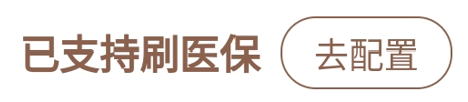
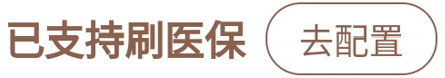
ui

diff --git a/lib/body.dart b/lib/body.dart
@@ -8,7 +8,7 @@ import 'covid_test_result.dart';
 import 'name.dart';
 
 Widget body = Container(
-    margin: const EdgeInsets.fromLTRB(0, 20, 0, 0),
+    margin: const EdgeInsets.fromLTRB(0, 12, 0, 0),
     decoration: const BoxDecoration(
         color: Colors.white,
         borderRadius: BorderRadius.all(Radius.circular(10))
@@ -22,18 +22,18 @@ Widget body = Container(
         )
     ),
       Container(
-        height: 200,
-        margin: const EdgeInsets.fromLTRB(0, 0, 0, 18),
+        height: 160,
+        margin: const EdgeInsets.fromLTRB(0, 0, 0, 4),
         child: Column(
           mainAxisAlignment: MainAxisAlignment.spaceEvenly,
           children: [
             const Avatar(),
             const Name(),
-            Image.asset('assets/亲属随申码.png', scale: 1.5),
+            Image.asset('assets/亲属随申码.png', scale: 2),
           ]
       )),
       SizedBox(
-        height: 380,
+        height: 290,
         child: Column(
           mainAxisAlignment: MainAxisAlignment.spaceEvenly,
           children: [
@@ -42,7 +42,7 @@ Widget body = Container(
               data: '关注永雏塔菲喵',
               version: 5,
               errorCorrectionLevel: QrErrorCorrectLevel.H,
-              size: 300,
+              size: 220,
               foregroundColor: green,
               embeddedImage: const AssetImage('assets/qrcode_core.png'),
               embeddedImageStyle: QrEmbeddedImageStyle(
@@ -50,7 +50,7 @@ Widget body = Container(
               ),
             ),
             const Text('绿色', style: TextStyle(
-                fontSize: 28,
+                fontSize: 22,
                 color: green,
                 fontWeight: FontWeight.bold
             ))
@@ -58,13 +58,13 @@ Widget body = Container(
         )
       ),
       SizedBox(
-          height: 150,
+          height: 120,
           child: Column(
             mainAxisAlignment: MainAxisAlignment.spaceEvenly,
             children: [
               Image.asset(
                 'assets/已支持刷医保.png',
-                width: 260
+                width: 180
               ),
               const CovidTestResult(),
             ],

diff --git a/lib/header.dart b/lib/header.dart
@@ -1,23 +1,23 @@
 import 'package:flutter/material.dart';
 
 Widget header = SizedBox(
-    height: 48,
+    height: 36,
     child: Stack(alignment: Alignment.bottomCenter, children: [
       Positioned(
         left: 0,
         bottom: 0,
-        child: Image.asset('assets/back.png', scale: 1.5)),
+        child: Image.asset('assets/back.png', scale: 2)),
       const Positioned(
         bottom: 0,
         child: Text(
           '随申码',
-          style: TextStyle(fontSize: 24,color: Colors.white)
+          style: TextStyle(fontSize: 18, color: Colors.white)
         )
       ),
       Positioned(
         right: 0,
         bottom: 0,
-        child: Image.asset('assets/top-right.png', scale: 1.75)),
+        child: Image.asset('assets/top-right.png', scale: 2)),
     ]));
 
 Widget bottom = Container(

diff --git a/lib/main.dart b/lib/main.dart
@@ -16,10 +16,10 @@ class MyApp extends StatelessWidget {
   Widget build(BuildContext context) {
     return Scaffold(body:SingleChildScrollView(child: Container(
         decoration: const BoxDecoration(color: Color(0xffdfc797)),
-        padding: const EdgeInsets.fromLTRB(20, 50, 20, 20),
+        padding: const EdgeInsets.fromLTRB(20, 36, 20, 20),
         child: DefaultTextStyle(
             style: const TextStyle(
-              fontSize: 22,
+              fontSize: 16,
               color: Colors.black,
             ),
             child: Column(

diff --git a/lib/time.dart b/lib/time.dart
@@ -31,13 +31,13 @@ class _TimeLineState extends State<TimeLine> {
         Text(
             timeString.substring(0, timeString.length -2),
             style: const TextStyle(
-                fontSize: 20,
+                fontSize: 15,
             )
         ),
         Text(
           timeString.substring(timeString.length -2, timeString.length),
           style: const TextStyle(
-            fontSize: 30,
+            fontSize: 22,
             fontWeight: FontWeight.bold
           ))
       ],

diff --git a/lib/covid_test_result.dart b/lib/covid_test_result.dart
@@ -44,8 +44,9 @@ class _CovidTestResultState extends State<CovidTestResult> {
           child: Text(
             '$_day',
             style: const TextStyle(
-                fontSize: 60,
+                fontSize: 48,
                 fontWeight: FontWeight.bold,
+                color: green,
             ),
           ),
           onTap: () {

diff --git a/lib/name.dart b/lib/name.dart
@@ -56,8 +56,9 @@ class _NameState extends State<Name> {
           child: Text(
             name,
             style: const TextStyle(
-              fontSize: 28,
+              fontSize: 20,
               color: Colors.black,
+              fontWeight: FontWeight.bold,
             ),
           ),
           onTap: () {
